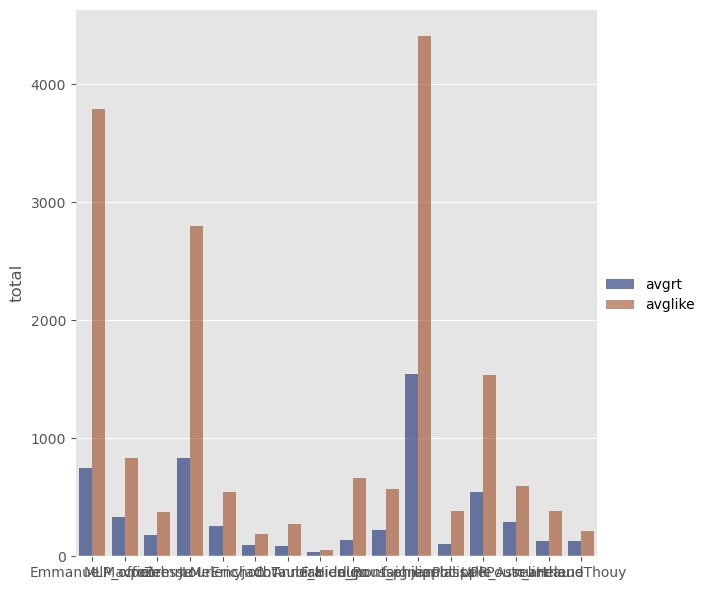
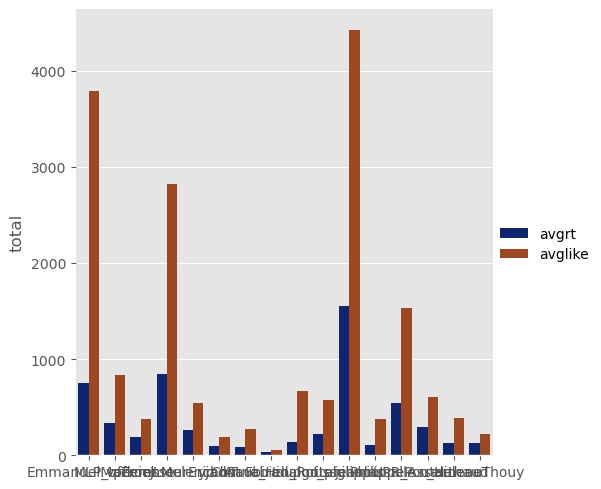
rt_hash_sent

Changed region(s): [[0.03, 0.0, 0.9884, 0.9816], [0.0, 0.4294, 0.03, 0.5215]]

diff --git a/templates/rtlike.html b/templates/rtlike.html
@@ -10,23 +10,10 @@
     <script src="https://cdn.jsdelivr.net/npm/chart.js"></script>
 </head>
 <body>
-    <nav id="navbar" class="">
-        <div class="nav-wrapper">
-          <!-- Navbar Logo -->
-          <div class="logo">
-            <!-- Logo Placeholder for Inlustration -->
-            <a href="#home"><i class="fa fa-angellist"></i> Logo</a>
-          </div>
-      
-          <!-- Navbar Links -->
-          <ul id="menu">
-            <li><a href="/">Acceuil</a></li><!--
-         --><li><a href="#services">Retweets</a></li><!--
-         --><li><a href="#about">Hashtags</a></li><!--
-         --><li><a href="#contact">Sentiments</a></li>
-          </ul>
-        </div>
-      </nav>
+  {% include 'nav.html' %}
+
+  {% block content %}
+  {% endblock %}
       
       
       <!-- Menu Icon -->
@@ -51,37 +38,17 @@
     <div class="container">
         <div class="jumbotron">
             <h1 class="display-4">Retweet et Likes</h1>
-            <p class="lead d-none d-md-block">Nous avons collecté les retweet et likes des 100 derniers tweets des principaux candidats aux présidentiels. </p>
-            
-            
-                There are many variations of passages of Lorem Ipsum available, but the majority have suffered alteration in some form, by injected humour, or randomised words which don't look even slightly believable. If you are going to use a passage of Lorem Ipsum, you need to be sure there isn't anything embarrassing hidden in the middle of text. All the Lorem Ipsum generators on the Internet tend to repeat predefined chunks as necessary, making this the first true generator on the Internet. It uses a dictionary of over 200 Latin words, combined with a handful of model sentence structures, to generate Lorem Ipsum which looks reasonable. The generated Lorem Ipsum is therefore always free from repetition, injected humour, or non-characteristic words etc.</p>
-                What is Lorem Ipsum?
-                Lorem Ipsum is simply dummy text of the printing and typesetting industry. Lorem Ipsum has been the industry's standard dummy text ever since the 1500s, when an unknown printer took a galley of type and scrambled it to make a type specimen book. It has survived not only five centuries, but also the leap into electronic typesetting, remaining essentially unchanged. It was popularised in the 1960s with the release of Letraset sheets containing Lorem Ipsum passages, and more recently with desktop publishing software like Aldus PageMaker including versions of Lorem Ipsum.
-                Why do we use it?
-                It is a long established fact that a reader will be distracted by the readable content of a page when looking at its layout. The point of using Lorem Ipsum is that it has a more-or-less normal distribution of letters, as opposed to using 'Content here, content here', making it look like readable English. Many desktop publishing packages and web page editors now use Lorem Ipsum as their default model text, and a search for 'lorem ipsum' will uncover many web sites still in their infancy. Various versions have evolved over the years, sometimes by accident, sometimes on purpose (injected humour and the like).
-                Where does it come from?
-                Contrary to popular belief, Lorem Ipsum is not simply random text. It has roots in a piece of classical Latin literature from 45 BC, making it over 2000 years old. Richard McClintock, a Latin professor at Hampden-Sydney College in Virginia, looked up one of the more obscure Latin words, consectetur, from a Lorem Ipsum passage, and going through the cites of the word in classical literature, discovered the undoubtable source. Lorem Ipsum comes from sections 1.10.32 and 1.10.33 of "de Finibus Bonorum et Malorum" (The Extremes of Good and Evil) by Cicero, written in 45 BC. This book is a treatise on the theory of ethics, very popular during the Renaissance. The first line of Lorem Ipsum, "Lorem ipsum dolor sit amet..", comes from a line in section 1.10.32.
-                The standard chunk of Lorem Ipsum used since the 1500s is reproduced below for those interested. Sections 1.10.32 and 1.10.33 from "de Finibus Bonorum et Malorum" by Cicero are also reproduced in their exact original form, accompanied by English versions from the 1914 translation by H. Rackham.
-                Where can I get some?
-                There are many variations of passages of Lorem Ipsum available, but the majority h  
-                What is Lorem Ipsum?
-                Lorem Ipsum is simply dummy text of the printing and typesetting industry. Lorem Ipsum has been the industry's standard dummy text ever since the 1500s, when an unknown printer took a galley of type and scrambled it to make a type specimen book. It has survived not only five centuries, but also the leap into electronic typesetting, remaining essentially unchanged. It was popularised in the 1960s with the release of Letraset sheets containing Lorem Ipsum passages, and more recently with desktop publishing software like Aldus PageMaker including versions of Lorem Ipsum.
-                Why do we use it?
-                It is a long established fact that a reader will be distracted by the readable content of a page when looking at its layout. The point of using Lorem Ipsum is that it has a more-or-less normal distribution of letters, as opposed to using 'Content here, content here', making it look like readable English. Many desktop publishing packages and web page editors now use Lorem Ipsum as their default model text, and a search for 'lorem ipsum' will uncover many web sites still in their infancy. Various versions have evolved over the years, sometimes by accident, sometimes on purpose (injected humour and the like).
-                Where does it come from?
-                Contrary to popular belief, Lorem Ipsum is not simply random text. It has roots in a piece of classical Latin literature from 45 BC, making it over 2000 years old. Richard McClintock, a Latin professor at Hampden-Sydney College in Virginia, looked up one of the more obscure Latin words, consectetur, from a Lorem Ipsum passage, and going through the cites of the word in classical literature, discovered the undoubtable source. Lorem Ipsum comes from sections 1.10.32 and 1.10.33 of "de Finibus Bonorum et Malorum" (The Extremes of Good and Evil) by Cicero, written in 45 BC. This book is a treatise on the theory of ethics, very popular during the Renaissance. The first line of Lorem Ipsum, "Lorem ipsum dolor sit amet..", comes from a line in section 1.10.32.
-                The standard chunk of Lorem Ipsum used since the 1500s is reproduced below for those interested. Sections 1.10.32 and 1.10.33 from "de Finibus Bonorum et Malorum" by Cicero are also reproduced in their exact original form, accompanied by English versions from the 1914 translation by H. Rackham.
-                Where can I get some?
-                There are many variations of passages of Lorem Ipsum available, but the majority have suffered alteration in some form, by injected humour, or randomised words which don't look even slightly believable. If you are going to use a passage of Lorem Ipsum, you need to be sure there isn't anything embarrassing hidden in the middle of text. All the Lorem Ipsum generators on the Internet tend to repeat predefined chunks as necessary, making this the first true generator on the Internet. It uses a dictionary of over 200 Latin words, combined with a handful of model sentence structures, to generate Lorem Ipsum which looks reasonable. The generated Lorem Ipsum is therefore always free from repetition, injected humour, or non-characteristic words etc.</p>
-                What is Lorem Ipsum?
-                Lorem Ipsum is simply dummy text of the printing and typesetting industry. Lorem Ipsum has been the industry's standard dummy text ever since the 1500s, when an unknown printer took a galley of type and scrambled it to make a type specimen book. It has survived not only five centuries, but also the leap into electronic typesetting, remaining essentially unchanged. It was popularised in the 1960s with the release of Letraset sheets containing Lorem Ipsum passages, and more recently with desktop publishing software like Aldus PageMaker including versions of Lorem Ipsum.
-                Why do we use it?
-                It is a long established fact that a reader will be distracted by the readable content of a page when looking at its layout. The point of using Lorem Ipsum is that it has a more-or-less normal distribution of letters, as opposed to using 'Content here, content here', making it look like readable English. Many desktop publishing packages and web page editors now use Lorem Ipsum as their default model text, and a search for 'lorem ipsum' will uncover many web sites still in their infancy. Various versions have evolved over the years, sometimes by accident, sometimes on purpose (injected humour and the like).
-                Where does it come from?
-                Contrary to popular belief, Lorem Ipsum is not simply random text. It has roots in a piece of classical Latin literature from 45 BC, making it over 2000 years old. Richard McClintock, a Latin professor at Hampden-Sydney College in Virginia, looked up one of the more obscure Latin words, consectetur, from a Lorem Ipsum passage, and going through the cites of the word in classical literature, discovered the undoubtable source. Lorem Ipsum comes from sections 1.10.32 and 1.10.33 of "de Finibus Bonorum et Malorum" (The Extremes of Good and Evil) by Cicero, written in 45 BC. This book is a treatise on the theory of ethics, very popular during the Renaissance. The first line of Lorem Ipsum, "Lorem ipsum dolor sit amet..", comes from a line in section 1.10.32.
-                The standard chunk of Lorem Ipsum used since the 1500s is reproduced below for those interested. Sections 1.10.32 and 1.10.33 from "de Finibus Bonorum et Malorum" by Cicero are also reproduced in their exact original form, accompanied by English versions from the 1914 translation by H. Rackham.
-                Where can I get some?
-                There are many variations of passages of Lorem Ipsum available, but the majority h
+            <p class="lead d-none d-md-block">Nous avons collecté les retweet et likes des 100 derniers tweets des principaux candidats aux présidentiels. 
+              Cette analyse permet de prendre connaissance de l'activité de la communauté de followers que possède le candidat. Biensur l'activité,
+              le nombre de followers et de likes ne représentent pas réellement le votant pour le candidats aux élections  
+              On remarque notament que Florian Philippot possède de nombreux like notament à l'aide du soutient des mouvement gilets jaunes mais aussi anti-vax et pass sanitaire,
+              et informations conspirationnistes. Et nous retrouvons des candidats avec de très faibles résultats en par rapport aux sondages comme  Valérie Péceresse. 
+          
+
+
+
+            </p>
+
         </div>
 
         <br>

diff --git a/templates/nav.html b/templates/nav.html
@@ -1,0 +1,26 @@
+<!doctype html>
+<html>
+    <body>
+        {% block navbar %}
+        <nav id="navbar" class="">
+            <div class="nav-wrapper">
+              <!-- Navbar Logo -->
+              <div class="logo">
+                <!-- Logo Placeholder for Inlustration -->
+                <a href="#home"><i class="fa fa-angellist"></i> Logo</a>
+              </div>
+          
+              <!-- Navbar Links -->
+              <ul id="menu">
+                <li><a href="/" class="nav-item">Acceuil</a></li><!--
+             --><li><a href="/rtlike" class="nav-item">Retweets</a></li><!--
+             --><li><a href="/hashtags" class="nav-item">Hashtags</a></li><!--
+             --><li><a href="/sentiments" class="nav-item">Sentiments</a></li>
+              </ul>
+            </div>
+          </nav> 
+        {% endblock %}
+
+      
+    </body>
+</html>

diff --git a/templates/index.html b/templates/index.html
@@ -29,8 +29,8 @@
             <hr class="new">
             <p>L'application dispose de plusieurs fonctionnalités, telles que l'analyse des likes et des retweet des candidats, l'analyse de sentiments, ou la recherche de twee d'hashtag. Nous vous propons de les découvrirs ci-dessous.</p>
             <a class="btn btn-primary btn-lg redbutton" href="/rtlike" role="button">Retweets et likes</a>
-            <a class="btn btn-light btn-lg redbutton" href="#" role="button">Hashtags</a>
-            <a class="btn btn-danger btn-lg redbutton" href="#" role="button">Sentiments</a>
+            <a class="btn btn-light btn-lg redbutton" href="/hashtags" role="button">Hashtags</a>
+            <a class="btn btn-danger btn-lg redbutton" href="/sentiments" role="button">Sentiments</a>
             
         </div>
     </div>

diff --git a/static/styles/rtlike.css b/static/styles/rtlike.css
@@ -23,7 +23,7 @@
     ======================================================*/
   #navbar {
     background: white;
-    color: rgb(13, 26, 38);
+    color: rgb(255, 255, 255);
     position: fixed;
     top: 0;
     height: 60px;
@@ -84,7 +84,7 @@
   }
   
   #navbar li a {
-    color: rgb(13, 26, 38);
+    color: rgb(246, 247, 248);
     display: block;
     font-size: 0.7em;
     height: 50px;
@@ -317,7 +317,15 @@
   
   .overlay-menu li a:hover,
   .overlay-menu li a:active {
-    color: rgb(28, 121, 184);
+    color: rgb(255, 255, 255);
     -webkit-transition: color 0.3s ease;
     transition: color 0.3s ease;
   }
+
+#navbar {
+  background-color: black;
+}
+
+.nav-item {
+  color: white;
+}

diff --git a/templates/hashtags.html b/templates/hashtags.html
@@ -39,6 +39,7 @@
             <h1 class="display-4">Sentiment</h1>
             <p class="lead d-none d-md-block">Ici nous analysons si le tweet est : positif, négatif ou neutre à l'encontre d'un hashtag</p>
             
+            
             <p></p>
 
 

diff --git a/app.py b/app.py
@@ -8,7 +8,7 @@ from flask import Response
 import matplotlib.pyplot as plt
 
 app = Flask(__name__)
-plot_rt()
+# plot_rt()
  
 
 
@@ -26,8 +26,12 @@ def todo():
 def rtlike():
     return render_template('rtlike.html')
 
+@app.route('/hashtags', methods=['GET', 'POST'])
+def hashtags():
+    return render_template('hashtags.html')
 
-@app.route('/sentiment', methods=['GET', 'POST'])
+
+@app.route('/sentiments', methods=['GET', 'POST'])
 def sentiment():
     return render_template('sentiment.html')
 

diff --git a/rt_like.py b/rt_like.py
@@ -59,8 +59,7 @@ def plot_rt():
         for i in result : all_result.append(i)
     df = pd.DataFrame(all_result)
     df = pd.melt(df, id_vars='_id', value_vars=['avgrt', 'avglike'])
-    print(df)
-    plt.figure(figsize=[16,10])
+    plt.figure(figsize=[12,4] , dpi = 100 )
     g = sns.catplot(
         data=df, kind="bar",
         x="_id", y="value", hue="variable",
